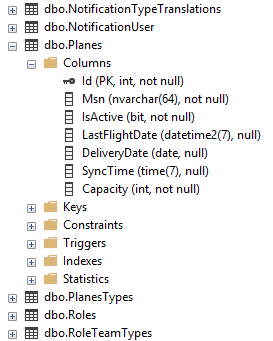
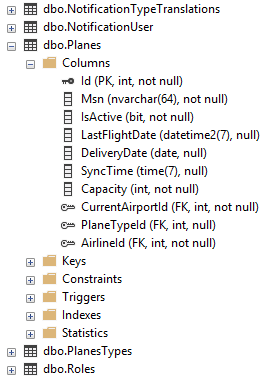
correction

Changed region(s): [[0.0, 0.0, 0.967, 0.9971]]

diff --git a/docs/10-Introduction/30-TryIt/80-CreateEngineChild.md b/docs/10-Introduction/30-TryIt/80-CreateEngineChild.md
@@ -152,7 +152,7 @@ private static void CreateEngineModel(ModelBuilder modelBuilder)
     "edit": "Edit engine",
     "listOf": "List of engines",
     "plane": "Plane",
-    "sn": "Serial Number"
+    "sN": "Serial Number"
   }
 ```
 
@@ -172,7 +172,7 @@ Open **'...\MyFirstProject\Angular\src\assets\i18n\app\es.json'** and add:
     "edit": "Editar motor",
     "listOf": "Lista de motores",
     "plane": "Avión",
-    "sn": "Número de serie"
+    "sN": "Número de serie"
   }
 ```
 
@@ -191,7 +191,7 @@ Open **'...\MyFirstProject\Angular\src\assets\i18n\app\fr.json'** and add:
     "edit": "Modifier moteur",
     "listOf": "Liste des moteurs",
     "plane": "Avion",
-    "sn": "Numéro de série"
+    "sN": "Numéro de série"
   }
 ```
 
@@ -201,6 +201,6 @@ Open **'...\MyFirstProject\Angular\src\assets\i18n\app\fr.json'** and add:
 * Go to *http://localhost:4200/*
 * Navigate to the plane list.
 * Select one plane (create one if needed) and click on the button "Engines":
-![CrudParentList](../../Images/BIAToolKit/CRUD-Child_Parent-List.png)
+![Verify_Engine_CRUD_1](../../Images/GettingStarted/Verify_Engine_CRUD_1.png)
 * You should access to the engines list of the plane.
-![CrudList](../../Images/BIAToolKit/CRUD-Child_List.png)
+![Verify_Engine_CRUD_2](../../Images/GettingStarted/Verify_Engine_CRUD_2.png)

diff --git a/docs/10-Introduction/30-TryIt/60-CreatePlaneCRUD.md b/docs/10-Introduction/30-TryIt/60-CreatePlaneCRUD.md
@@ -35,6 +35,17 @@ namespace MyCompany.MyFirstProject.Domain.Fleet.Entities
         public int Id { get; set; }
 
         /// <summary>
+        /// Gets or sets the site.
+        /// </summary>
+        public virtual Airline Airline { get; set; }
+
+        /// <summary>
+        /// Gets or sets the site id.
+        /// </summary>
+        public int AirlineId { get; set; }
+
+
+        /// <summary>
         /// Gets or sets the Manufacturer's Serial Number.
         /// </summary>
         public string Msn { get; set; }
@@ -136,7 +147,8 @@ public DbSet<Plane> Planes { get; set; }
 ![Plane_DTOGenerator](../../Images/GettingStarted/Plane_DTOGenerator.png)
 
 * Click on "Map to" button
-* Check the required checkbox for the Id mapping property
+* Check the required checkbox for the Id, Msn, Capacity and AirlineId mapping property
+* Check AirlineId as Parent Identifier
 * Then click the "Generate" button
 * The DTO and the mapper will be generated
 * Check in the project solution if the DTO and mapper are present
